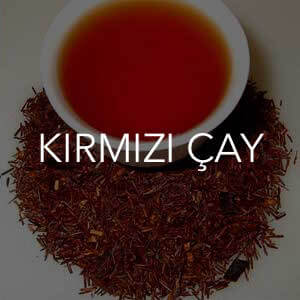
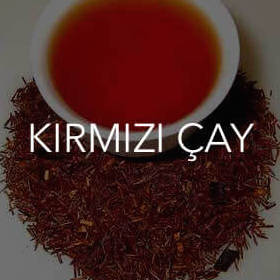
sdasd
asdasd

Changed region(s): [[0.0, 0.0, 1.0, 1.0], [0.0571, 0.2571, 0.0857, 0.2857]]

diff --git a/index.html b/index.html
@@ -163,7 +163,7 @@
                                 menu9=menu9+"<div class=\"panel panel-primary\"><div class=\"panel-heading\"><h5 align=\"left\">"+object.get("title")+" </h5></div><div class=\"panel-body\">"+object.get("summaryTurkish")+"</div></div>";
                             }
                         }
-                        document.getElementById("main").innerHTML = "<img width=\"120\" src=\"img/demlogo.png\"><br>Dem, İstanbul çay evi. Beyaz, yeşil, oolong, siyah, tütsülenmiş, pu-erh, kırmızı çay ve bitki çayından oluşan 60 çaylık yelpazesi ve 3 farklı ev yapımı buzlu çayıyla bu mucize bitkinin her halinin, ait oldukları kültürü yansıtan özel sunumlar ile İstanbullular ile buluştuğu Dem’de, çaylara eşlik eden özgün tatlılar, atıştırmalıklar ve zengin kahvaltı seçenekleri de mevcut.<br><br><table><tbody><tr><td><a onclick=\"cay()\"><img width=\"120\" style=\"margin:5px;\" onclick=\"cay()\" src=\"img/demcay.png\"></a></td><td><img style=\"margin:5px;\" width=\"120\" src=\"img/demyiyecek.png\"></td></tr></tbody></table>";
+                        document.getElementById("main").innerHTML = "<img width=\"120\" src=\"img/demlogo.png\"><br>Dem, İstanbul çay evi. Beyaz, yeşil, oolong, siyah, tütsülenmiş, pu-erh, kırmızı çay ve bitki çayından oluşan 60 çaylık yelpazesi ve 3 farklı ev yapımı buzlu çayıyla bu mucize bitkinin her halinin, ait oldukları kültürü yansıtan özel sunumlar ile İstanbullular ile buluştuğu Dem’de, çaylara eşlik eden özgün tatlılar, atıştırmalıklar ve zengin kahvaltı seçenekleri de mevcut.<br><br><table><tbody><tr><td><a onclick=\"cay()\"><img width=\"120\" style=\"margin:10px;\" onclick=\"cay()\" src=\"img/demcay.png\"></a></td><td><img style=\"margin:10px;\" width=\"120\" src=\"img/demyiyecek.png\"></td></tr></tbody></table>";
                     },
                     error: function(error) {
                         alert("Error: " + error.code + " " + error.message);
@@ -171,7 +171,7 @@
                 });
             }
             function cay(){
-                document.getElementById("main").innerHTML = "<table><tbody><tr><td><img width=\"120\" style=\"margin:5px;\" src=\"img/turkcayi.jpg\"></td><td><img style=\"margin:5px;\" width=\"120\" src=\"img/beyazcay.jpg\"></td></tr><tr><td><img width=\"120\" style=\"margin:5px;\" src=\"img/yesilcay.png\"></td><td><img style=\"margin:5px;\" width=\"120\" src=\"img/oolong.jpg\"></td></tr><tr><td><img width=\"120\" style=\"margin:5px;\" src=\"img/siyahcay.jpg\"></td><td><img style=\"margin:5px;\" width=\"120\" src=\"img/tutsulenmiscay.jpg\"></td></tr><tr><td><img width=\"120\" style=\"margin:5px;\" src=\"img/puerhcayi.jpg\"></td><td><img style=\"margin:5px;\" width=\"120\" src=\"img/kirmizicay.jpg\"></td></tr><tr><td><img width=\"120\" style=\"margin:5px;\" src=\"img/bitkicaylari.png\"></td><td><img style=\"margin:5px;\" width=\"120\" src=\"img/demyiyecek.png\"></td></tr></tbody></table>";
+                document.getElementById("main").innerHTML = "<table><tbody><tr><td><img width=\"120\" style=\"margin:10px;\" src=\"img/turkcayi.jpg\"></td><td><img style=\"margin:10px;\" width=\"120\" src=\"img/beyazcay.jpg\"></td></tr><tr><td><img width=\"120\" style=\"margin:10px;\" src=\"img/yesilcay.png\"></td><td><img style=\"margin:10px;\" width=\"120\" src=\"img/oolong.jpg\"></td></tr><tr><td><img width=\"120\" style=\"margin:10px;\" src=\"img/siyahcay.jpg\"></td><td><img style=\"margin:10px;\" width=\"120\" src=\"img/tutsulenmiscay.jpg\"></td></tr><tr><td><img width=\"120\" style=\"margin:10px;\" src=\"img/puerhcayi.jpg\"></td><td><img style=\"margin:10px;\" width=\"120\" src=\"img/kirmizicay.jpg\"></td></tr><tr><td><img width=\"120\" style=\"margin:10px;\" src=\"img/bitkicaylari.png\"></td><td><img style=\"margin:10px;\" width=\"120\" src=\"img/demyiyecek.png\"></td></tr></tbody></table>";
             }
         </script>
         <script type="text/javascript" src="cordova.js"></script><script type="text/javascript" src="barcodescanner.js"></script><script type="text/javascript" src="js/index.js"></script><script type="text/javascript">app.initialize();</script><script src="https://ajax.googleapis.com/ajax/libs/jquery/1.11.1/jquery.min.js"></script><script src="js/bootstrap.min.js"></script>
